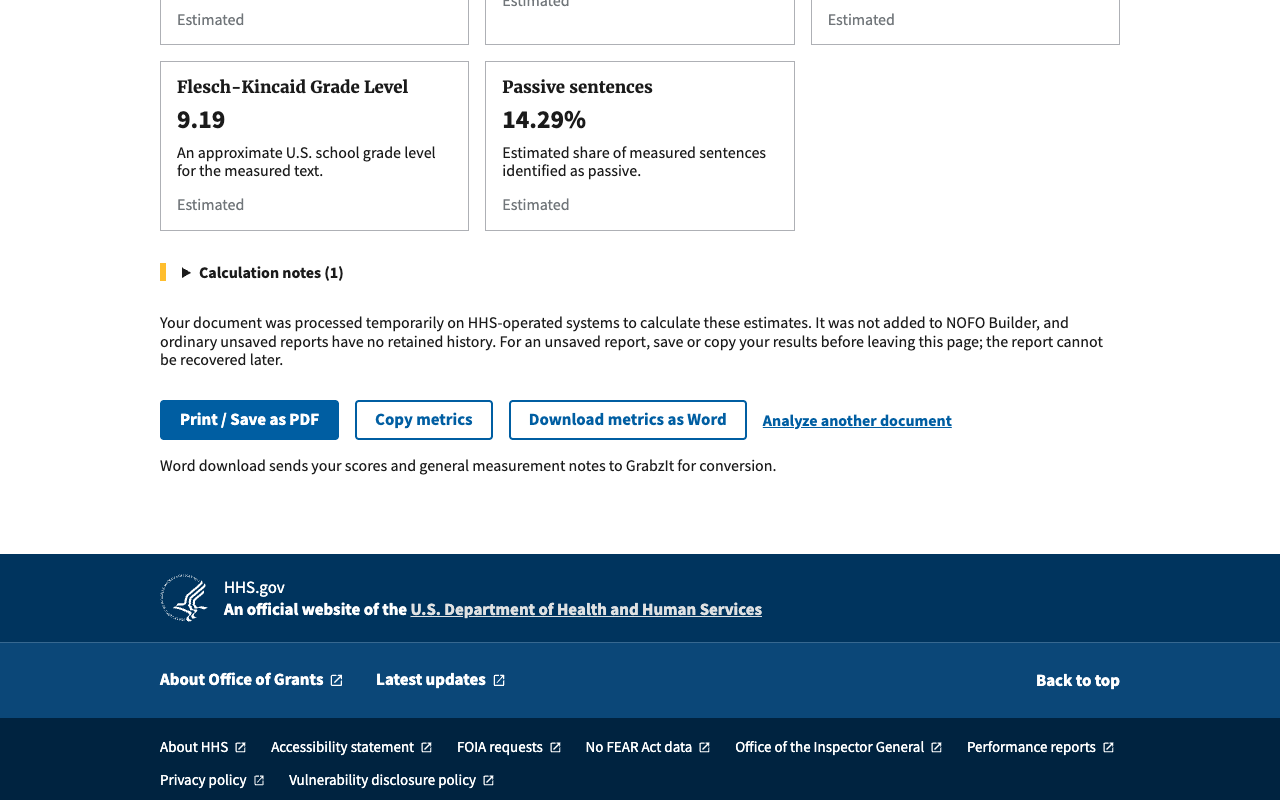
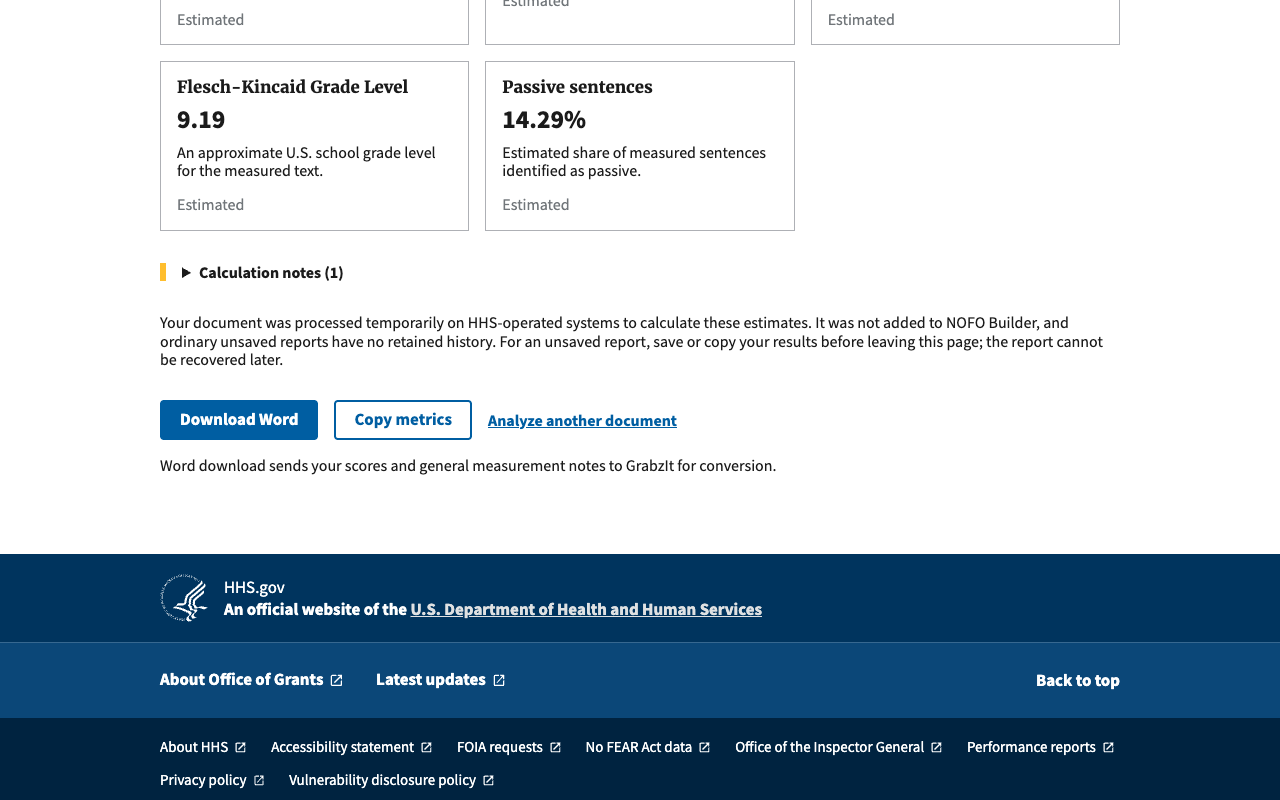
fix: make Word the primary checker download

Changed region(s): [[0.125, 0.5, 0.75, 0.5625]]

diff --git a/nofos/bloom_nofos/templates/pdf_readability.html b/nofos/bloom_nofos/templates/pdf_readability.html
@@ -124,13 +124,12 @@
         {% endif %}
         <p class="margin-top-4">Your document was processed temporarily on HHS-operated systems to calculate these estimates. It was not added to NOFO Builder, and ordinary unsaved reports have no retained history. For an unsaved report, save or copy your results before leaving this page; the report cannot be recovered later.</p>
         <div class="readability-actions no-print">
-          <button class="usa-button" type="button" id="print-readability-report">Print / Save as PDF</button>
-          <button class="usa-button usa-button--outline" type="button" id="copy-readability-report">Copy metrics</button>
           {% if word_export_report %}
           {% include "includes/document_progress_styles.html" %}
           {% url 'pdf_readability_word_export' as metrics_word_url %}
-          {% include "includes/docx_download_button_form.html" with action_url=metrics_word_url id_suffix="-readability-metrics" button_label="Download metrics as Word" modal_heading="Generating Word report…" button_description="readability-word-export-note" readability_metrics=True report_token=word_export_report %}
+          {% include "includes/docx_download_button_form.html" with action_url=metrics_word_url id_suffix="-readability-metrics" button_label="Download Word" primary=True modal_heading="Generating Word report…" button_description="readability-word-export-note" readability_metrics=True report_token=word_export_report %}
           {% endif %}
+          <button class="usa-button usa-button--outline" type="button" id="copy-readability-report">Copy metrics</button>
           <a class="usa-link text-bold" href="{% url 'pdf_readability' %}">Analyze another document</a>
         </div>
         {% if word_export_report %}
@@ -210,6 +209,6 @@
 <script src="{% static 'js/nofo_export.js' %}" defer></script>
 <script src="{% static 'js/nofo_export_button.js' %}" defer></script>
 {% endif %}
-<script src="{% static 'js/pdf_readability.js' %}?v=word-scope-1"></script>
+<script src="{% static 'js/pdf_readability.js' %}?v=word-export-1"></script>
 <script src="{% static 'js/word_comparison.js' %}"></script>
 {% endblock %}

diff --git a/nofos/bloom_nofos/static/js/pdf_readability.js b/nofos/bloom_nofos/static/js/pdf_readability.js
@@ -48,9 +48,6 @@
     uploadError.focus();
   }
 
-  const printButton = document.getElementById("print-readability-report");
-  if (printButton) printButton.addEventListener("click", () => window.print());
-
   const calculationNotes = document.getElementById("readability-calculation-notes");
   if (calculationNotes) {
     let wasOpen = false;

diff --git a/nofos/bloom_nofos/tests_bloom_nofos/test_signed_in_readability_checker.py b/nofos/bloom_nofos/tests_bloom_nofos/test_signed_in_readability_checker.py
@@ -169,7 +169,7 @@ class SignedInCheckerTests(TestCase):
         )
         self.assertContains(response, "Save as PDF")
         self.assertContains(response, f'href="{self.url}"')
-        self.assertContains(response, "Print / Save as PDF")
+        self.assertNotContains(response, "Print / Save as PDF")
         self.assertContains(response, "Copy metrics")
         self.assertContains(response, 'id="readability-draft-scope"')
         self.assertContains(response, "Keep instructions that applicants need.")
@@ -252,7 +252,7 @@ class SignedInCheckerTests(TestCase):
         self.assertNotContains(response, "Unknown reliability")
         self.assertContains(response, "shared metric formulas")
         self.assertContains(response, "use the same format and analysis method")
-        self.assertContains(response, "Print / Save as PDF")
+        self.assertNotContains(response, "Print / Save as PDF")
         self.assertContains(response, "Copy metrics")
         self.assertNotContains(response, "Usable PDF tags")
         self.assertNotContains(response, "words recovered from the PDF")

diff --git a/nofos/bloom_nofos/tests_bloom_nofos/test_pdf_readability.py b/nofos/bloom_nofos/tests_bloom_nofos/test_pdf_readability.py
@@ -426,7 +426,7 @@ class PdfReadabilityPageTests(TestCase):
             response, "not a compliance, accessibility, or clearance determination"
         )
         self.assertNotContains(response, "theme-base.css")
-        self.assertContains(response, "Print / Save as PDF")
+        self.assertNotContains(response, "Print / Save as PDF")
         self.assertContains(response, "1,234")
         self.assertContains(response, "Not available")
         self.assertNotContains(response, "Unavailable · Low reliability")

diff --git a/nofos/nofos/tests_nofos/test_readability_word_export.py b/nofos/nofos/tests_nofos/test_readability_word_export.py
@@ -43,7 +43,8 @@ class ReadabilityWordExportTests(TestCase):
                 "csrfmiddlewaretoken": csrf,
             },
         )
-        self.assertContains(results, "Download metrics as Word")
+        self.assertContains(results, "Download Word")
+        self.assertNotContains(results, "Print / Save as PDF")
         form = BeautifulSoup(results.content, "html.parser").select_one(
             "form[action$='/export-word/']"
         )

diff --git a/documentation/EDITOR_TASKS.md b/documentation/EDITOR_TASKS.md
@@ -1012,8 +1012,11 @@ then try again. If it's still unavailable, contact the checker operator.
    still count.
    A Word report without a reliability rating explains the tool's limitation;
    it does not mean a problem was detected in your upload.
-5. Select **Copy metrics** or **Print / Save as PDF** before leaving the report.
-   Use **Analyze another document** for another upload.
+5. Select **Download Word**, when available, for a short report with the Tier 2
+   clearance metrics and Tier 1 drafting measure. GrabzIt receives only the
+   metric values and general measurement notes for this conversion. You can
+   also select **Copy metrics** before leaving the report. Use **Analyze
+   another document** for another upload.
 
 Profiles are selected automatically; there is no profile setting to choose.
 Check the report's **Measurement version** when comparing results. Version 0.7.0
@@ -1046,10 +1049,6 @@ did not generate or verify PDFs.
 These tasks apply only to the isolated synthetic profile, not a deployed Builder
 or an ordinary NOFO. They were checked in local Chrome on October 20, 2026.
 See [local host setup and limitations](design-pilot/DESIGN_PILOT_LOCAL_HOST.md).
-
-Select **Download metrics as Word**, when available, for a short report of the
-Tier 2 clearance metrics and the Tier 1 drafting measure. GrabzIt receives
-only the metric values and general measurement notes for this conversion.
 
 <a id="task-design-pilot-import"></a>
 

diff --git a/documentation/review-evidence/1412/README.md b/documentation/review-evidence/1412/README.md
@@ -10,7 +10,8 @@ screens use upstream main at `d8aaa657`. The after screens use
 | Readability Checker results after uploading a synthetic Word file while signed out | [Before](checker-before.png) | [After](checker-after.png) | [Checker](checker-word-report.png) |
 | Readability metrics panel on a synthetic NOFO edit page | [Before](builder-before.png) | [After](builder-after.png) | [Builder](builder-word-report.png) |
 
-Both download actions use the existing Word export progress dialog. See
+The Checker uses **Download Word** as the primary action and offers **Copy
+metrics** alongside it. Both Word actions use the existing export progress dialog. See
 [Checker progress](checker-word-progress.png), [Builder progress](builder-word-progress.png),
 and [Builder conversion error](builder-word-error.png). Both dialogs closed on
 success. The simulated error could be dismissed while keeping the metrics open.

diff --git a/documentation/DOCX_EXPORT.md b/documentation/DOCX_EXPORT.md
@@ -21,7 +21,8 @@ Each export template wraps the document in `<div id="download_target">`. GrabzIt
 
 ### Readability metrics reports
 
-The Readability Checker and the NOFO Builder readability panel use
+The Readability Checker’s **Download Word** action and the NOFO Builder
+readability panel’s **Download metrics as Word** action use
 `generate_html_docx_download_response` in the same module. Both paths use the
 same configured credentials, host allowlist, HTTPS connection, in-memory DOCX
 validation, and attachment handling as full-document Word downloads.
